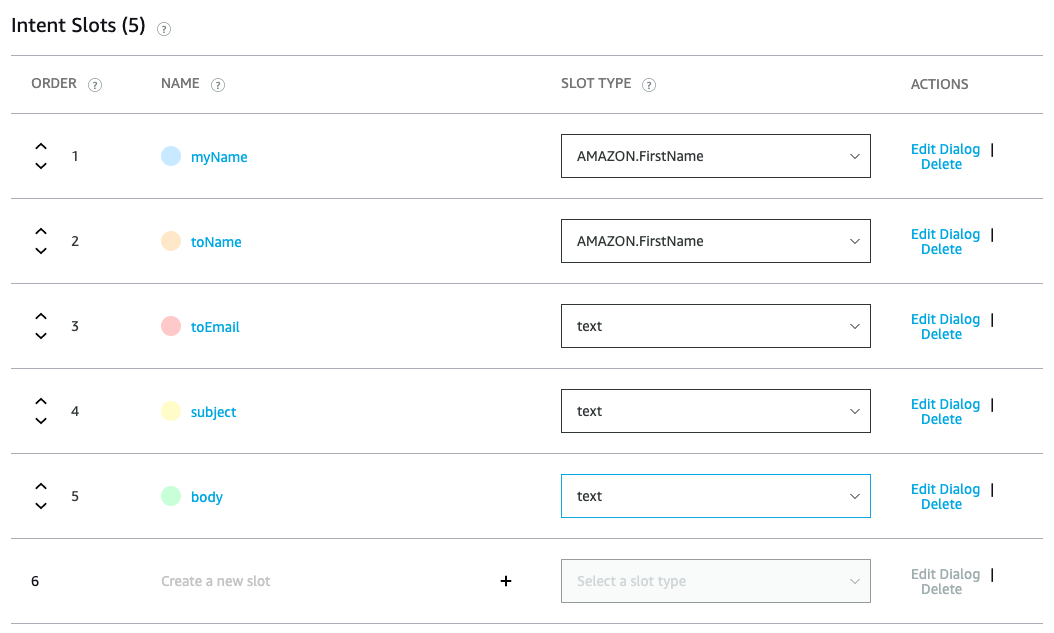
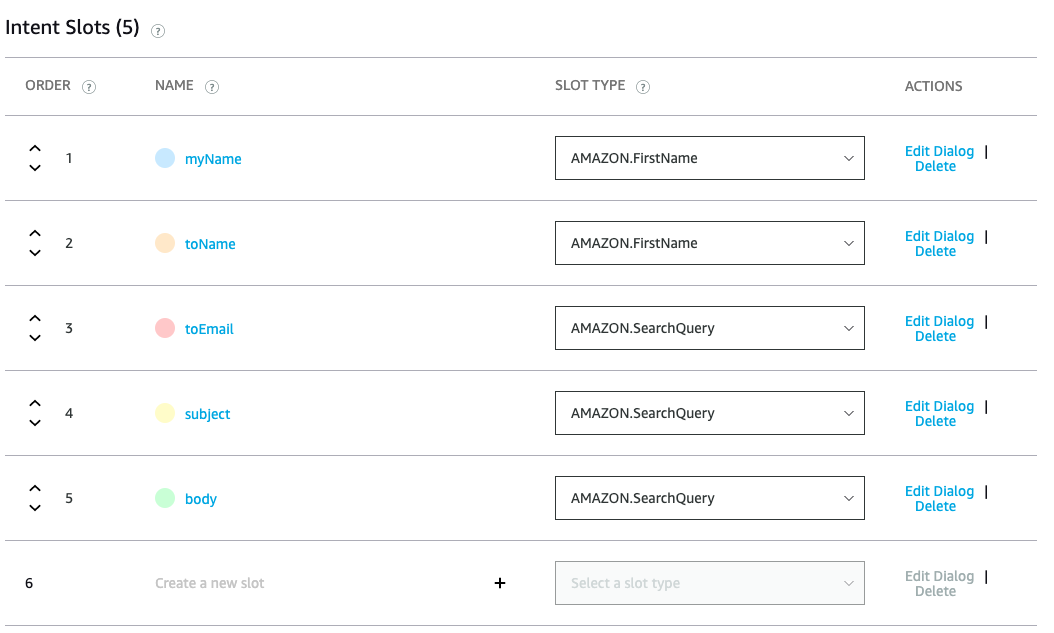
Adding Part 2

diff --git a/EmailDictationSkill.md b/EmailDictationSkill.md
@@ -23,6 +23,6 @@ Go and add the missing slots and define slot types, prompts and user utterances.
 At the end of the process you should have something like the next screenshot in your Intent Slots list:
 ![Intent Slots](screenshots/Screen5.png)
 
-The ```text``` slot type is a new custom type you will have to create during the process.
+The ```AMAZON.SearchQuery``` slot type is used for open text inputs in our skill.
 
 Ready to move on? [Click here - Part 3 >>](AddTranslation.md)
